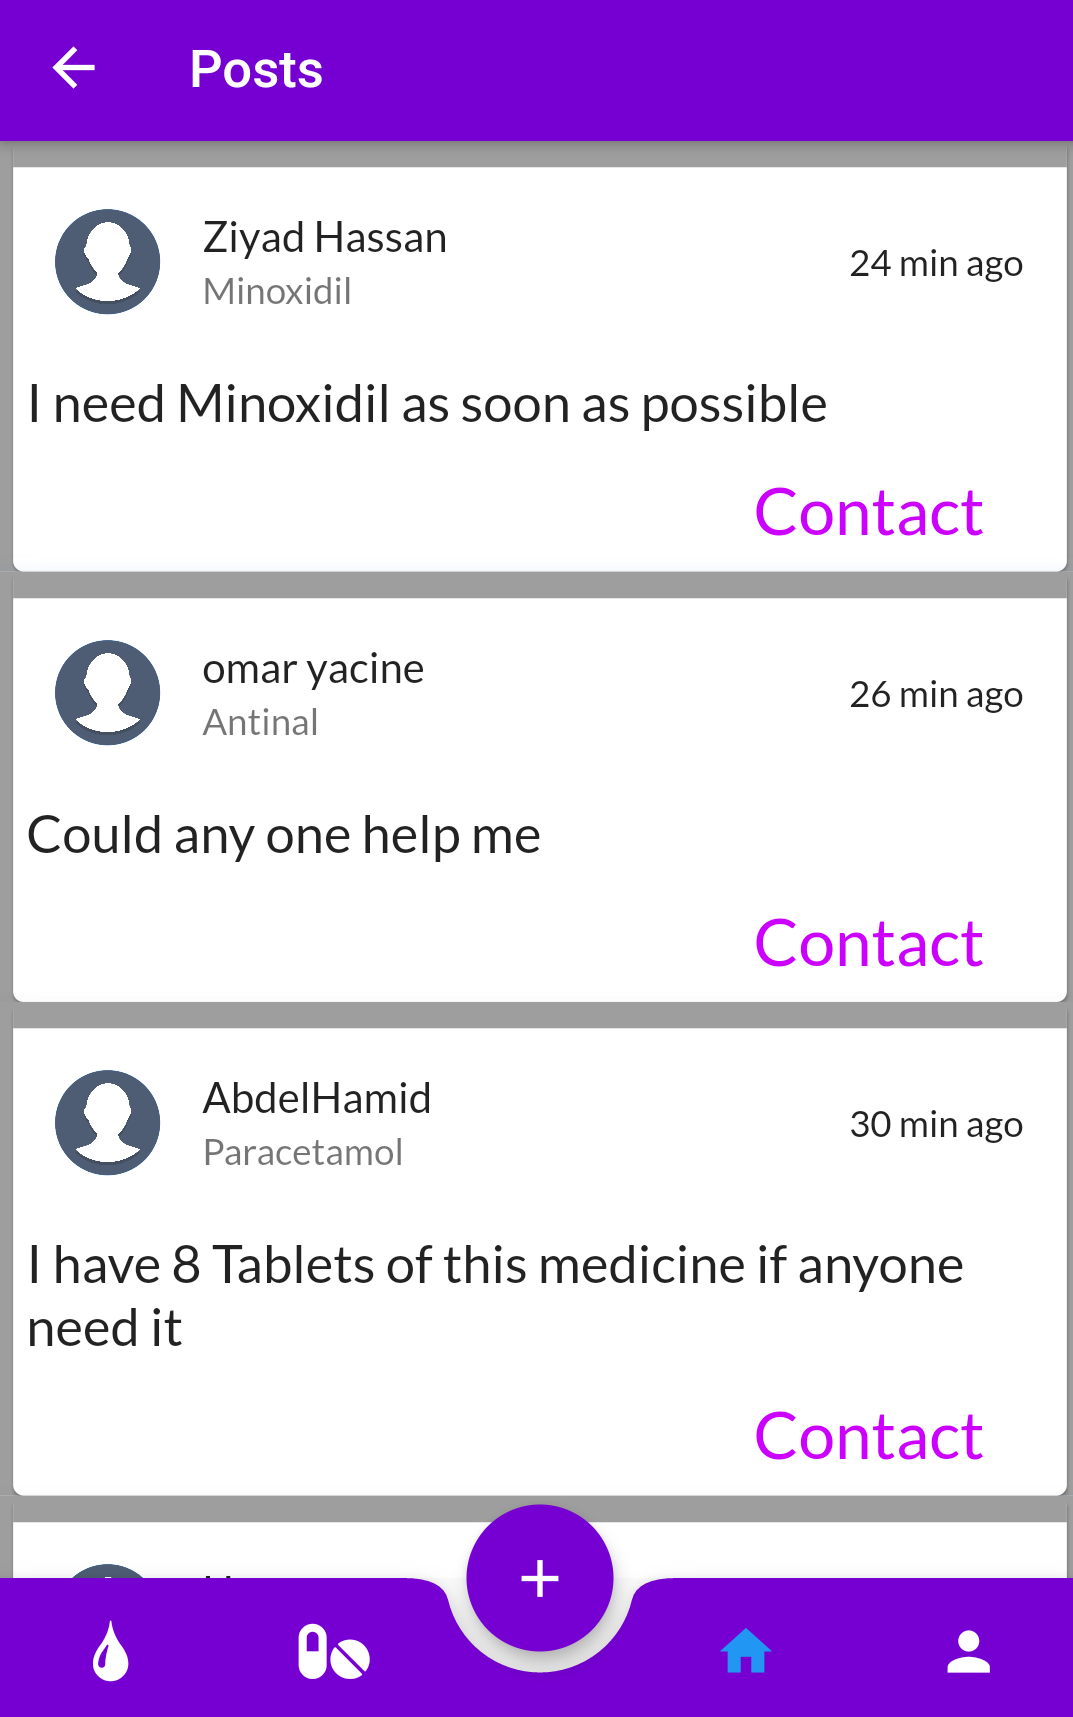
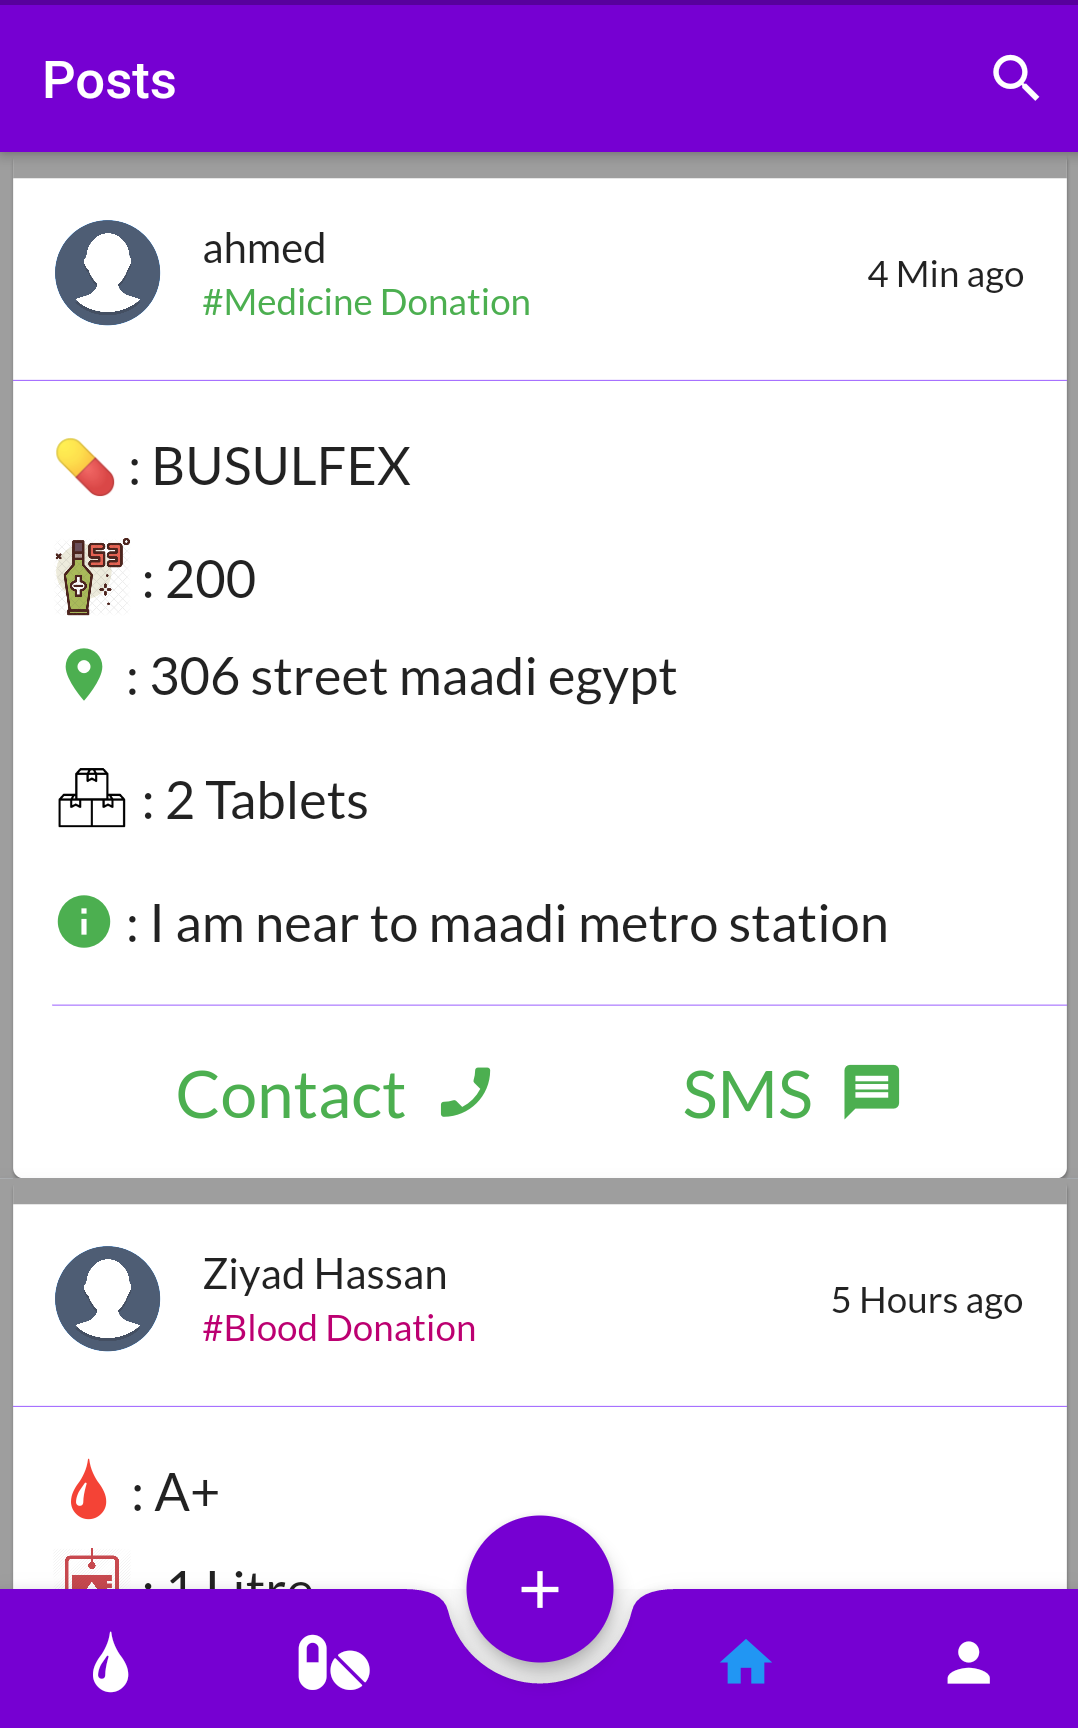
Final Version

diff --git a/lib/Medicine/Post.dart b/lib/Medicine/Post.dart
@@ -22,17 +22,17 @@ class Posts extends StatefulWidget {
 
   Posts(
       {@required this.Concentration,
-      @required this.UserName,
-      @required this.UID,
-      @required this.MedicineName,
-      @required this.Notes,
-      @required this.PhoneNumber,
-      @required this.PostTime,
-      @required this.ExpirationDate,
-      @required this.BloodType,
-      @required this.Type,
-      @required this.Location,
-      @required this.NeededQuntity});
+        @required this.UserName,
+        @required this.UID,
+        @required this.MedicineName,
+        @required this.Notes,
+        @required this.PhoneNumber,
+        @required this.PostTime,
+        @required this.ExpirationDate,
+        @required this.BloodType,
+        @required this.Type,
+        @required this.Location,
+        @required this.NeededQuntity});
 
   @override
   _PostsState createState() => _PostsState();
@@ -52,15 +52,15 @@ class _PostsState extends State<Posts> {
       if (widget.Type == "Request Medicine") {
         activeColor = MedicineActiveColor;
         url =
-            'sms:+${widget.PhoneNumber}?body= Hi, ${widget.UserName} \n i see your post about requesting ${widget.MedicineName} medicine, i have excess of that medicine , i can meet you at the location you mentioned in the post ,please contact me to arrange the meeting time.';
+        'sms:+${widget.PhoneNumber}?body= Hi, ${widget.UserName} \n i see your post about requesting ${widget.MedicineName} medicine, i have excess of that medicine , i can meet you at the location you mentioned in the post ,please contact me to arrange the meeting time.';
       } else if (widget.Type == "Giving Medicine") {
         activeColor = Colors.green;
         url =
-            'sms:+${widget.PhoneNumber}?body= Hi, ${widget.UserName} \n i see your post about donating ${widget.MedicineName} medicine, i really need that medicine , i can meet you at the location you mentioned in the post ,please contact me to arrange the meeting time.';
+        'sms:+${widget.PhoneNumber}?body= Hi, ${widget.UserName} \n i see your post about donating ${widget.MedicineName} medicine, i really need that medicine , i can meet you at the location you mentioned in the post ,please contact me to arrange the meeting time.';
       } else {
         activeColor = BloodActiveColor;
         url =
-            'sms:+${widget.PhoneNumber}?body= Hi, ${widget.UserName} \n i see your post about donating/requesting ${widget.BloodType} Blood, i can meet you at the location you mentioned in the post ,please contact me to arrange the meeting time.';
+        'sms:+${widget.PhoneNumber}?body= Hi, ${widget.UserName} \n i see your post about donating/requesting ${widget.BloodType} Blood, i can meet you at the location you mentioned in the post ,please contact me to arrange the meeting time.';
         ExpirationDate =
             DateFormat('dd-MM-yyyy').format(widget.ExpirationDate).toString();
       }
@@ -71,10 +71,10 @@ class _PostsState extends State<Posts> {
         time = "${DateTime.now().difference(widget.PostTime).inDays} Days ago";
       } else if (DateTime.now().difference(widget.PostTime).inHours != 0) {
         time =
-            "${DateTime.now().difference(widget.PostTime).inHours} Hours ago";
+        "${DateTime.now().difference(widget.PostTime).inHours} Hours ago";
       } else {
         time =
-            "${DateTime.now().difference(widget.PostTime).inMinutes} Min ago";
+        "${DateTime.now().difference(widget.PostTime).inMinutes} Min ago";
       }
     });
   }
@@ -122,13 +122,18 @@ class _PostsState extends State<Posts> {
                 child: Column(
                   children: [
                     Row(children: [
-                      // Image(
-                      //   image: AssetImage('assets/pill-emoji.png'),
-                      //   width: 30.0,
-                      //   height: 30.0,
-                      // ),
+                      Tooltip(
+                        message: "Concentration",
+                        verticalOffset: 12,
+                        height: 12,
+                        child: Image(
+                          image: AssetImage('assets/pills.png'),
+                          width: 30.0,
+                          height: 30.0,
+                        ),
+                      ),
                       AutoSizeText(
-                        "${Emojis.pill} : ${widget.MedicineName.toUpperCase()}",
+                        " : ${widget.MedicineName.toUpperCase()}",
                         style: TextStyle(fontSize: 20),
                       ),
                     ]),
@@ -141,6 +146,16 @@ class _PostsState extends State<Posts> {
                       //   width: 30.0,
                       //   height: 30.0,
                       // ),
+                      Tooltip(
+                        message: "Concentration",
+                        verticalOffset: 12,
+                        height: 12,
+                        child: Image(
+                          image: AssetImage('assets/conen.png'),
+                          width: 30.0,
+                          height: 30.0,
+                        ),
+                      ),
                       AutoSizeText(
                         " : ${widget.Concentration}",
                         style: TextStyle(fontSize: 20),
@@ -150,9 +165,29 @@ class _PostsState extends State<Posts> {
                       height: 10.0,
                     ),
                     Row(children: [
+                      Tooltip(
+                        message: "Amout Needed",
+                        verticalOffset: 12,
+                        height: 12,
+                        child: Image(
+                          image: AssetImage('assets/amount.png'),
+                          width: 30.0,
+                          height: 30.0,
+                        ),
+                      ),
+                      AutoSizeText(
+                        " : ${widget.NeededQuntity}",
+                        style: TextStyle(fontSize: 20),
+                      ),
+                    ]),
+                    SizedBox(
+                      height: 10.0,
+                    ),
+                    Row(children: [
                       Icon(
                         Icons.location_on,
-                        color: Colors.blue,
+                        color: activeColor,
+                        size: 25.0,
                       ),
                       AutoSizeText(
                         " : ${widget.Location}",
@@ -160,6 +195,24 @@ class _PostsState extends State<Posts> {
                       ),
                     ]),
                     SizedBox(height: 20.0),
+                    Row(children: [
+                      Tooltip(
+                        message: "Extra Info",
+                        verticalOffset: 12,
+                        height: 12,
+                        child: Icon(
+                          Icons.info,
+                          color: activeColor,
+                        ),
+                      ),
+                      AutoSizeText(
+                        " : ${widget.Notes}",
+                        style: TextStyle(fontSize: 20),
+                      ),
+                    ]),
+                    SizedBox(
+                      height: 10.0,
+                    ),
                     Divider(
                       height: 0.0,
                       color: Color.fromRGBO(154, 93, 255, 1.0),
@@ -289,25 +342,25 @@ class _PostsState extends State<Posts> {
                 child: Column(
                   children: [
                     Row(children: [
-                      // Image(
-                      //   image: AssetImage('assets/pill-emoji.png'),
-                      //   width: 30.0,
-                      //   height: 30.0,
-                      // ),
                       AutoSizeText(
                         "${Emojis.pill} : ${widget.MedicineName.toUpperCase()}",
                         style: TextStyle(fontSize: 20),
                       ),
                     ]),
                     SizedBox(
-                      height: 10.0,
+                      height: 15.0,
                     ),
                     Row(children: [
-                      // Image(
-                      //   image: AssetImage('assets/tube.png'),
-                      //   width: 30.0,
-                      //   height: 30.0,
-                      // ),
+                      Tooltip(
+                        message: "Concentration",
+                        verticalOffset: 12,
+                        height: 12,
+                        child: Image(
+                          image: AssetImage('assets/conen.png'),
+                          width: 30.0,
+                          height: 30.0,
+                        ),
+                      ),
                       AutoSizeText(
                         " : ${widget.Concentration}",
                         style: TextStyle(fontSize: 20),
@@ -319,10 +372,43 @@ class _PostsState extends State<Posts> {
                     Row(children: [
                       Icon(
                         Icons.location_on,
-                        color: Colors.blue,
+                        color: activeColor,
                       ),
                       AutoSizeText(
                         " : ${widget.Location}",
+                        style: TextStyle(fontSize: 20),
+                      ),
+                    ]),
+                    SizedBox(height: 20.0),
+                    Row(children: [
+                      Tooltip(
+                        message: "Amount Needed",
+                        verticalOffset: 12,
+                        height: 12,
+                        child: Image(
+                          image: AssetImage('assets/amount.png'),
+                          width: 30.0,
+                          height: 30.0,
+                        ),
+                      ),
+                      AutoSizeText(
+                        " : ${widget.NeededQuntity} Tablets",
+                        style: TextStyle(fontSize: 20),
+                      ),
+                    ]),
+                    SizedBox(height: 20.0),
+                    Row(children: [
+                      Tooltip(
+                        message: "Extra Info",
+                        verticalOffset: 12,
+                        height: 12,
+                        child: Icon(
+                          Icons.info,
+                          color: activeColor,
+                        ),
+                      ),
+                      AutoSizeText(
+                        " : ${widget.Notes}",
                         style: TextStyle(fontSize: 20),
                       ),
                     ]),
@@ -456,13 +542,40 @@ class _PostsState extends State<Posts> {
                 child: Column(
                   children: [
                     Row(children: [
-                      Icon(
-                        const IconData(0xe800,
-                            fontFamily: 'MyFlutterApp', fontPackage: null),
-                        color: Colors.red,
+                      Tooltip(
+                        message: "Blood Type",
+                        verticalOffset: 12,
+                        height: 12,
+                        child: Padding(
+                          padding: const EdgeInsets.only(left: 2.0),
+                          child: Icon(
+                            const IconData(0xe800,
+                                fontFamily: 'MyFlutterApp', fontPackage: null),
+                            color: Colors.red,
+                          ),
+                        ),
                       ),
                       AutoSizeText(
-                        ": ${widget.BloodType.toUpperCase()}",
+                        " : ${widget.BloodType.toUpperCase()}",
+                        style: TextStyle(fontSize: 20),
+                      ),
+                    ]),
+                    SizedBox(
+                      height: 10.0,
+                    ),
+                    Row(mainAxisAlignment: MainAxisAlignment.start, children: [
+                      Tooltip(
+                        message: "Amout Needed",
+                        verticalOffset: 12,
+                        height: 12,
+                        child: Image(
+                          image: AssetImage('assets/bloodamount.png'),
+                          width: 30.0,
+                          height: 30.0,
+                        ),
+                      ),
+                      AutoSizeText(
+                        " : ${widget.NeededQuntity}",
                         style: TextStyle(fontSize: 20),
                       ),
                     ]),
@@ -470,18 +583,17 @@ class _PostsState extends State<Posts> {
                       height: 10.0,
                     ),
                     Row(children: [
-                      AutoSizeText(
-                        " ${Emojis.dropOfBlood}  : ${widget.NeededQuntity}",
-                        style: TextStyle(fontSize: 20),
-                      ),
-                    ]),
-                    SizedBox(
-                      height: 10.0,
-                    ),
-                    Row(children: [
-                      Icon(
-                        Icons.location_on,
-                        color: Colors.blue,
+                      Padding(
+                        padding: const EdgeInsets.only(left: 2.0),
+                        child: Tooltip(
+                          message: "Location",
+                          verticalOffset: 12,
+                          height: 12,
+                          child: Icon(
+                            Icons.location_on,
+                            color: activeColor,
+                          ),
+                        ),
                       ),
                       AutoSizeText(
                         " : ${widget.Location}",
@@ -489,6 +601,27 @@ class _PostsState extends State<Posts> {
                       ),
                     ]),
                     SizedBox(height: 20.0),
+                    Row(children: [
+                      Tooltip(
+                        message: "Extra Info",
+                        verticalOffset: 12,
+                        height: 12,
+                        child: Padding(
+                          padding: const EdgeInsets.only(left: 2.0),
+                          child: Icon(
+                            Icons.info,
+                            color: activeColor,
+                          ),
+                        ),
+                      ),
+                      AutoSizeText(
+                        " : ${widget.Notes}",
+                        style: TextStyle(fontSize: 20),
+                      ),
+                    ]),
+                    SizedBox(
+                      height: 10.0,
+                    ),
                     Divider(
                       height: 0.0,
                       color: Color.fromRGBO(154, 93, 255, 1.0),

diff --git a/README.md b/README.md
@@ -27,13 +27,13 @@ At each stage of the medicines' trip from the donor to the recipient, a bar-code
 <div>
 
 ### Registration page:
-<img src="./readme_assets/register.jpg" alt="registeration" width="300"/>
+<img src="./readme_assets/register.jpg" alt="registration" width="300"/>
 <hr>
 </div>
 <div>
 
 ### Profile:
-<img src="./readme_assets/profile.jpg" alt="progile" width="300"/>
+<img src="./readme_assets/profile.jpg" alt="profile" width="300"/>
 <hr>
 </div>
 <div>
@@ -91,4 +91,4 @@ For production environments...
 ```
 ## License :scroll:
 
-> This software is licensed under MIT License, See [License](./LICENSE) for more information ©Pillarity
+> This Software is licensed under MIT License, See [License](./LICENSE) for more information ©Pillarity
